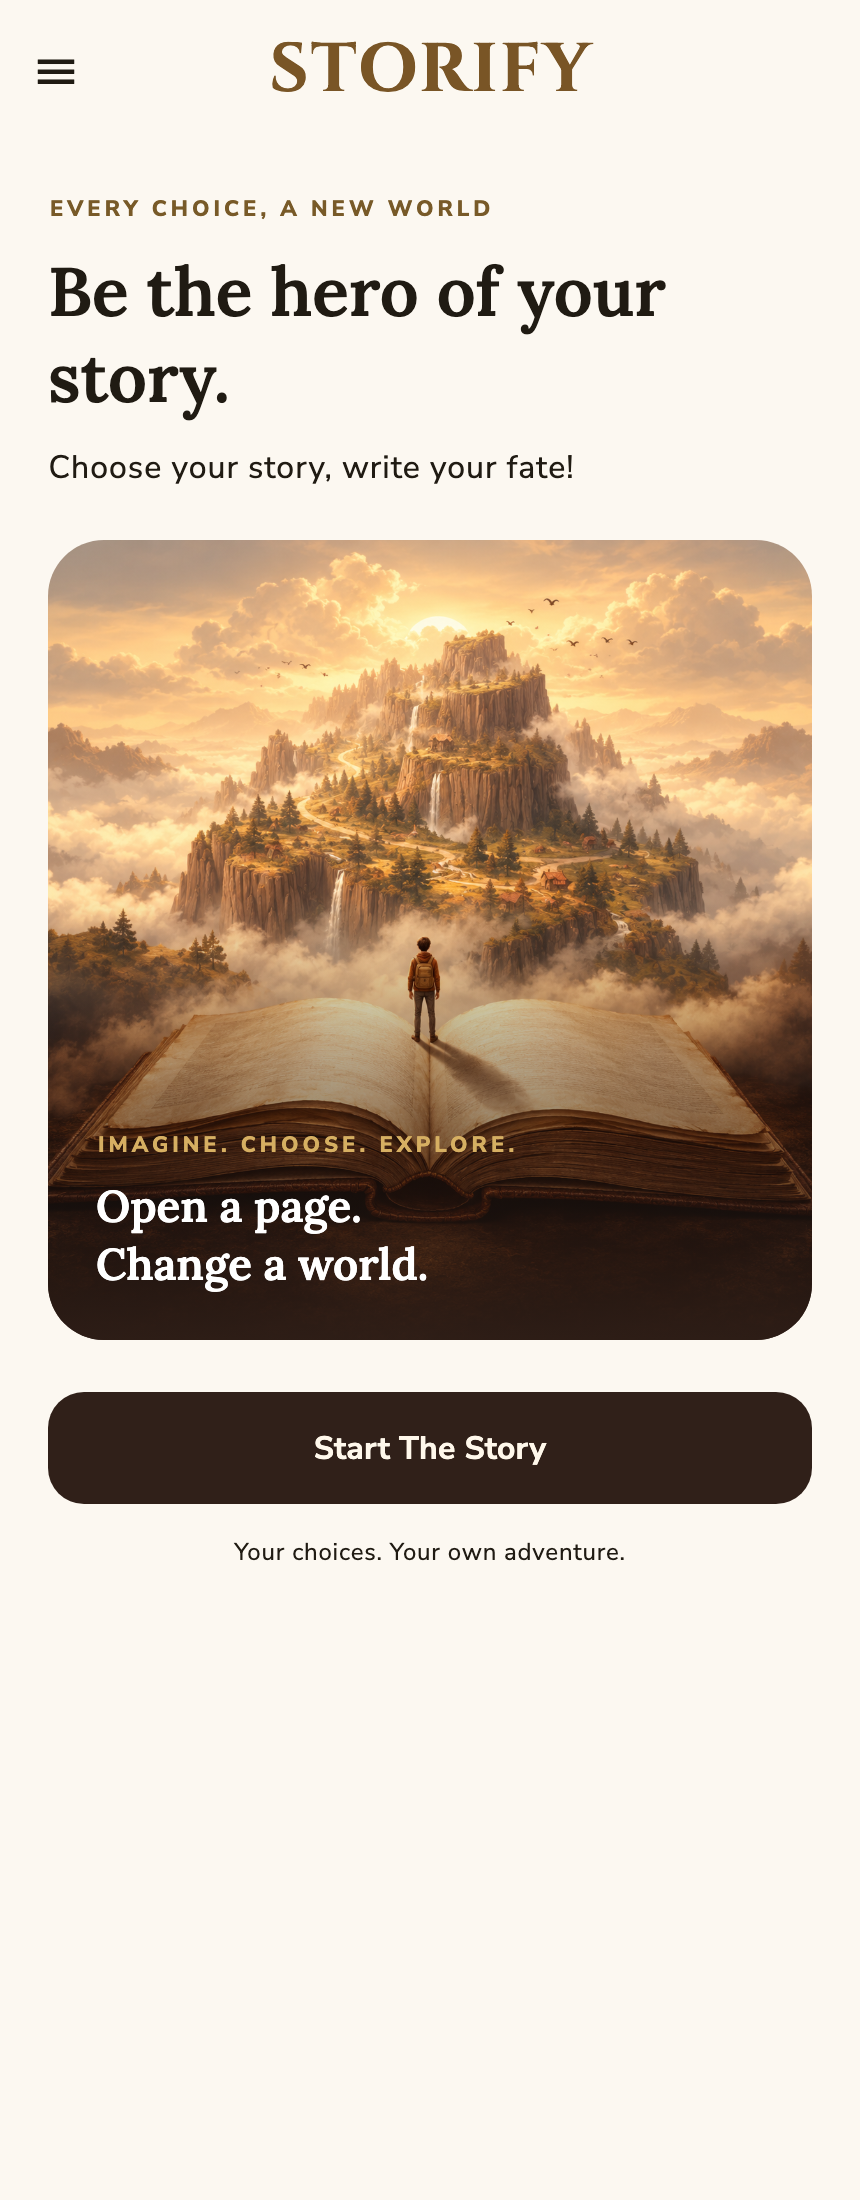
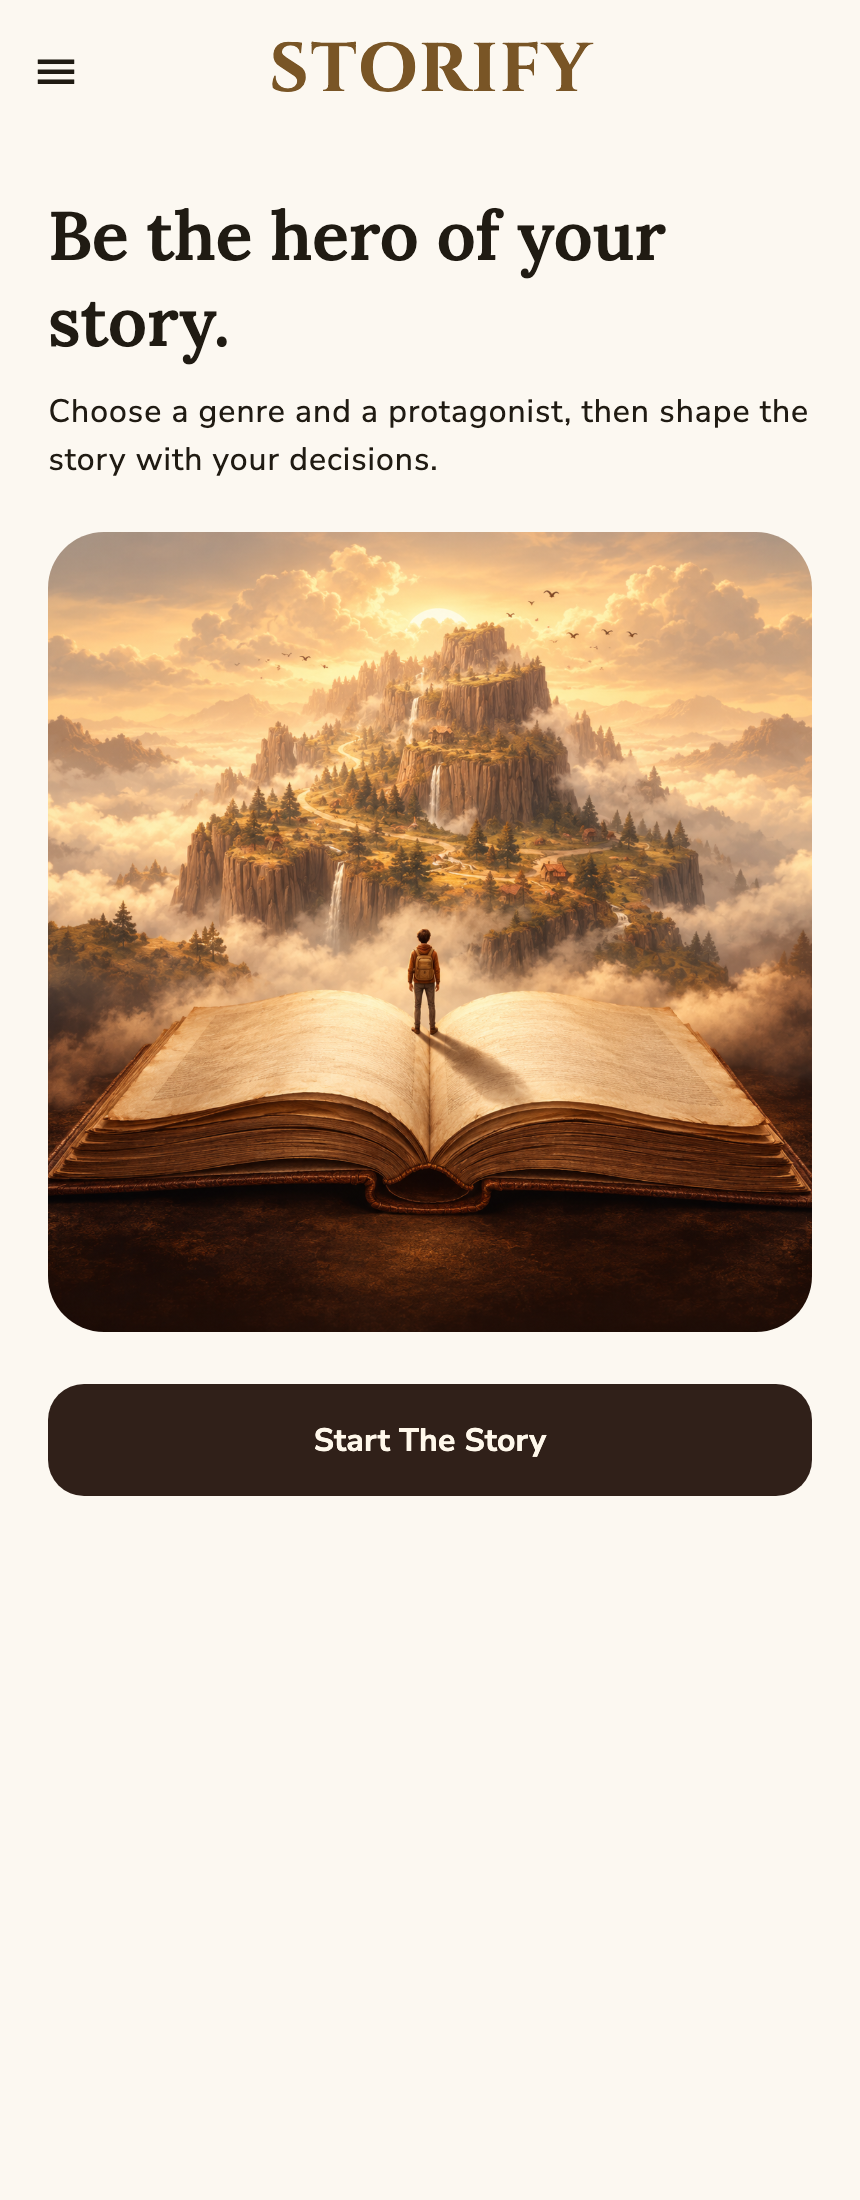
Simplify bilingual presentation and home screen copy

Changed region(s): [[0.0605, 0.0927, 0.9674, 0.7109], [0.907, 0.1855, 0.9372, 0.2164]]

diff --git a/lib/pages/home_page.dart b/lib/pages/home_page.dart
@@ -11,7 +11,6 @@ import 'package:flutter_story_app/pages/theme_selection_page.dart';
 import 'package:flutter_story_app/widgets/app_scaffold.dart';
 import 'package:flutter_story_app/widgets/primary_button.dart';
 import 'package:flutter_story_app/widgets/auth_guard.dart';
-import 'package:flutter_story_app/theme/app_theme.dart';
 
 class HomePage extends StatefulWidget {
   const HomePage({super.key});
@@ -62,75 +61,19 @@ class _HomePageState extends State<HomePage> {
         final wide = constraints.maxWidth >= 700;
         final artwork = ClipRRect(
           borderRadius: BorderRadius.circular(28),
-          child: Stack(
-            alignment: Alignment.bottomLeft,
-            children: [
-              Image.asset(
-                'assets/images/story-intro-gold.png',
-                width: double.infinity,
-                height:
-                    wide
-                        ? 540
-                        : (constraints.maxHeight * .45).clamp(220.0, 400.0),
-                fit: BoxFit.cover,
-                alignment: const Alignment(0, .25),
-              ),
-              Positioned.fill(
-                child: DecoratedBox(
-                  decoration: BoxDecoration(
-                    gradient: LinearGradient(
-                      begin: Alignment.topCenter,
-                      end: Alignment.bottomCenter,
-                      colors: [
-                        Colors.transparent,
-                        AppTheme.espresso.withValues(alpha: .85),
-                      ],
-                      stops: const [.45, 1],
-                    ),
-                  ),
-                ),
-              ),
-              Padding(
-                padding: const EdgeInsets.all(24),
-                child: Column(
-                  crossAxisAlignment: CrossAxisAlignment.start,
-                  children: [
-                    Text(
-                      'home_art_label'.tr(),
-                      style: const TextStyle(
-                        color: AppTheme.gold,
-                        fontSize: 11,
-                        letterSpacing: 2,
-                        fontWeight: FontWeight.w800,
-                      ),
-                    ),
-                    const SizedBox(height: 8),
-                    Text(
-                      'home_art_title'.tr(),
-                      style: Theme.of(
-                        context,
-                      ).textTheme.headlineSmall?.copyWith(color: Colors.white),
-                    ),
-                  ],
-                ),
-              ),
-            ],
+          child: Image.asset(
+            'assets/images/story-intro-gold.png',
+            width: double.infinity,
+            height:
+                wide ? 540 : (constraints.maxHeight * .45).clamp(220.0, 400.0),
+            fit: BoxFit.cover,
+            alignment: const Alignment(0, .25),
           ),
         );
         final content = Column(
           crossAxisAlignment: CrossAxisAlignment.start,
           children: [
             const SizedBox(height: 8),
-            Text(
-              'home_eyebrow'.tr(),
-              style: TextStyle(
-                color: Theme.of(context).colorScheme.secondary,
-                fontSize: 11,
-                letterSpacing: 2,
-                fontWeight: FontWeight.w800,
-              ),
-            ),
-            const SizedBox(height: 12),
             Text(
               'home_title'.tr(),
               style: Theme.of(context).textTheme.headlineLarge,
@@ -176,14 +119,6 @@ class _HomePageState extends State<HomePage> {
                   },
                 );
               },
-            ),
-            const SizedBox(height: 10),
-            Center(
-              child: Text(
-                'home_note'.tr(),
-                textAlign: TextAlign.center,
-                style: Theme.of(context).textTheme.bodySmall,
-              ),
             ),
           ],
         );

diff --git a/README.tr.md b/README.tr.md
@@ -8,15 +8,15 @@ Storify, Android ve iOS için geliştirilmiş etkileşimli bir hikâye uygulamas
 
 - **Seçimlerinle şekillenen hikâyeler:** Her bölümde sunulan üç seçenek, hikâyenin devamına yön verir. Yapay zekâ önceki olayları devam bölümlerinin bağlamında kullanır.
 - **Sekiz tür:** Macera, fantastik, gizem, bilim kurgu, korku, romantik, tarihî ve komedi. Kahramanını seçebilir veya seçimi uygulamaya bırakabilirsin.
-- **Misafir hikâyeleri:** İki dilde, farklı sonlara ulaşan hazır hikâyeleri AI isteği yapmadan keşfet. İlk misafir girişi internet bağlantısı gerektirir.
-- **Yapay zekâyla hikâye:** Kayıtlı kullanıcılar hikâye oluşturabilir, aynı cihazda son kaydedilen AI hikâyesine devam edebilir ve en fazla 30 bölümde sona ulaşabilir.
+- **Misafir hikâyeleri:** İki dilde, farklı sonlara ulaşan hazır hikâyeleri yapay zekâ isteği yapmadan keşfet. İlk misafir girişi internet bağlantısı gerektirir.
+- **Yapay zekâyla hikâye:** Kayıtlı kullanıcılar hikâye oluşturabilir, aynı cihazda son kaydedilen yapay zekâ hikâyesine devam edebilir ve en fazla 30 bölümde sona ulaşabilir.
 - **Hesap yönetimi:** E-posta/şifre ve Google ile giriş, şifre sıfırlama, profil düzenleme ve hesap silme. iOS için Apple ile giriş kodu mevcut; sağlayıcı yapılandırması gerektirir.
-- **İçerik kontrolleri:** AI paylaşımı öncesinde izin, üretilen metin ve seçeneklerde moderasyon ve uygulama içinden hikâye bildirme.
+- **İçerik kontrolleri:** Yapay zekâyla paylaşım öncesinde izin, üretilen metin ve seçeneklerde moderasyon ve uygulama içinden hikâye bildirme.
 - **Kişiselleştirme:** Türkçe ve İngilizce dil desteği, açık ve koyu tema; Storify'nin kahverengi ve altın paletinde farklı ekran boyutlarına uyumlu arayüz.
 
 ## Ekran görüntüleri
 
-Uygulamanın gerçek Flutter ekran bileşenleri ve paket içindeki misafir hikâyeleriyle oluşturulmuş görüntüler. Türkçe ve İngilizce çekimler mevcut; canlı hesap veya AI isteği kullanılmaz.
+Örnek hikâyelerle uygulama ekranları:
 
 <img src="docs/store/screenshots/tr-home.png" width="250" alt="Storify Türkçe ana sayfa"> <img src="docs/store/screenshots/tr-selection.png" width="250" alt="Storify Türkçe hikâye türü ve kahraman seçimi"> <img src="docs/store/screenshots/tr-story.png" width="250" alt="Storify Türkçe misafir hikâyesi ve seçenekleri">
 
@@ -27,19 +27,17 @@ Uygulamanın gerçek Flutter ekran bileşenleri ve paket içindeki misafir hikâ
 
 </details>
 
-Görüntüleri yeniden üretmek için [çekim rehberine](docs/store/screenshots/README.md) bakabilirsin.
-
 ## Veriler ve gizlilik
 
-Son AI hikâyesi ve tercihler cihazda saklanır; hikâyeler cihazlar arasında senkronize edilmez. Kimlik doğrulama, profil fotoğrafları ve gönderilen içerik bildirimleri için Firebase kullanılır. İzin verildikten sonra AI üretimi için hikâye bağlamı ve seçimler OpenAI'a gönderilir. Bu izin uygulama içinden geri alınabilir. Storify reklam, satın alma veya kullanım analitiği entegrasyonu içermez.
+Son yapay zekâ hikâyesi ve tercihler cihazda saklanır; hikâyeler cihazlar arasında senkronize edilmez. Kimlik doğrulama, profil fotoğrafları ve gönderilen içerik bildirimleri için Firebase kullanılır. İzin verildikten sonra yapay zekâ üretimi için hikâye bağlamı ve seçimler OpenAI'a gönderilir. Bu izin uygulama içinden geri alınabilir. Storify reklam, satın alma veya kullanım analitiği entegrasyonu içermez.
 
-Hesap silme işlemi yeniden kimlik doğrulaması yapar; ilgili Storage dosyalarını ve yerel hikâye/izin verilerini temizledikten sonra kimlik doğrulama hesabını siler. Canlı sağlayıcı ayarları ve Storage izinleri yayın öncesinde ayrıca doğrulanmalıdır.
-
-Uygulama **geliştirme aşamasındadır ve genel dağıtıma hazır değildir**. AI üretimi ve moderasyon şu anda uygulama paketindeki geliştirme anahtarını kullanır; yayın öncesinde bu istekler kimlik doğrulayan bir sunucuya taşınmalıdır. İmzalama, herkese açık gizlilik/hesap silme sayfaları ve gerçek cihaz doğrulamaları da beklemektedir.
+Hesap silme işlemi yeniden kimlik doğrulaması gerektirir; ilişkili dosyaları, yerel hikâye verilerini ve hesabı kaldırır.
 
 [Veri işleme açıklaması](docs/DATA_AND_PRIVACY.md#türkçe) · [Yayın kontrol listesi](docs/release_preparation.md)
 
 ## Geliştirme
+
+Uygulama geliştirme aşamasındadır. Dağıtım öncesinde yapay zekâ istekleri, uygulamadaki geliştirme anahtarı yerine kimlik doğrulamalı bir sunucu üzerinden çalışmalıdır. İmzalama, herkese açık gizlilik ve hesap silme sayfaları ile fiziksel cihaz testleri de tamamlanmalıdır.
 
 Storify, Flutter ile geliştirilmiştir. Durum yönetiminde Bloc/Cubit, yerel hikâye ilerlemesi ve tercihler için SharedPreferences, kimlik doğrulama ve dosya depolama için Firebase kullanılır. Çeviriler `easy_localization` ile yönetilir.
 
@@ -51,7 +49,7 @@ cp .env.example .env
 flutter run
 ```
 
-İlgili özellikleri test etmeden önce Firebase sağlayıcılarını ve yerel geliştirme anahtarını yapılandır. AI sağlayıcı anahtarı içeren derlemeleri dağıtma.
+İlgili özellikleri test etmeden önce Firebase sağlayıcılarını ve yerel geliştirme anahtarını yapılandır. Yapay zekâ sağlayıcı anahtarı içeren derlemeleri dağıtma.
 
 Kod ve test kontrolleri:
 
@@ -60,10 +58,12 @@ flutter analyze --no-pub
 flutter test --no-pub
 ```
 
-Yapılandırma, mimari, Storage kuralı testleri ve derleme komutları [geliştirme rehberinde](docs/DEVELOPMENT.md) açıklanır. Doğrulanan kontroller ve kalan işler [son proje incelemesinde](docs/project_review_2026-11-01.md) yer alır.
+Yapılandırma, mimari, Storage kuralı testleri ve derleme komutları [geliştirme rehberinde](docs/DEVELOPMENT.md) açıklanır.
 
 ## Destek
 
-[Shien](https://github.com/emrealidemirel/shien) uygulamasının da geliştiricisi olan [Emre Ali Demirel](https://github.com/emrealidemirel) tarafından geliştirilmiştir.
+Geliştirici: [Emre Ali Demirel](https://github.com/emrealidemirel)
+
+Diğer projeler: [Shien](https://github.com/emrealidemirel/shien) · [BugPilot AI](https://github.com/emrealidemirel/bugpilot-ai)
 
 Sorular ve geri bildirimler için: [emrealidemirel@gmail.com](mailto:emrealidemirel@gmail.com)

diff --git a/README.md b/README.md
@@ -16,7 +16,7 @@ Storify is an interactive storytelling app for Android and iOS. Choose a genre a
 
 ## Screenshots
 
-App screens rendered from the production Flutter widgets with bundled guest stories. English and Turkish captures are available; no live account or AI request is used.
+App screens with sample stories:
 
 <img src="docs/store/screenshots/en-home.png" width="250" alt="Storify home screen in English"> <img src="docs/store/screenshots/en-selection.png" width="250" alt="Storify genre and protagonist selection in English"> <img src="docs/store/screenshots/en-story.png" width="250" alt="Storify guest story with branching choices in English">
 
@@ -27,19 +27,17 @@ App screens rendered from the production Flutter widgets with bundled guest stor
 
 </details>
 
-See the [capture guide](docs/store/screenshots/README.md) to reproduce the images.
-
 ## Data and privacy
 
 The latest AI story and preferences are stored on your device; stories do not sync between devices. Firebase handles authentication, profile images, and submitted content reports. After permission is granted, AI generation sends story context and choices to OpenAI. You can withdraw this permission in the app. Storify contains no ads, purchases, or usage analytics integrations.
 
-Account deletion reauthenticates the user and removes associated Storage files and local story/consent data before deleting the authentication account. Live provider configuration and Storage permissions still need release validation.
-
-The app is **in development and not ready for public distribution**. AI generation and moderation currently use a development key bundled in the app; these requests must move to an authenticated backend before release. Signing, public privacy/account-deletion pages, and real-device validation are also pending.
+Account deletion requires reauthentication and removes associated files, local story data, and the account.
 
 [Data handling](docs/DATA_AND_PRIVACY.md) · [Release checklist](docs/release_preparation.md)
 
 ## Development
+
+The app is in development. Before distribution, AI requests must move from the client-side development key to an authenticated backend. Signing, public privacy and account-deletion pages, and physical-device checks are also pending.
 
 Storify is built with Flutter. It uses Bloc/Cubit for state management, SharedPreferences for local story progress and preferences, and Firebase for authentication and file storage. Translations are managed with `easy_localization`.
 
@@ -60,10 +58,12 @@ flutter analyze --no-pub
 flutter test --no-pub
 ```
 
-See the [development guide](docs/DEVELOPMENT.md) for configuration, architecture, Storage-rule tests, and build commands. The [latest project review](docs/project_review_2026-11-01.md) records verified checks and remaining work.
+See the [development guide](docs/DEVELOPMENT.md) for configuration, architecture, Storage-rule tests, and build commands.
 
 ## Support
 
-Developed by [Emre Ali Demirel](https://github.com/emrealidemirel), also the developer of [Shien](https://github.com/emrealidemirel/shien).
+Developed by [Emre Ali Demirel](https://github.com/emrealidemirel).
+
+Other projects: [Shien](https://github.com/emrealidemirel/shien) · [BugPilot AI](https://github.com/emrealidemirel/bugpilot-ai)
 
 For questions and feedback: [emrealidemirel@gmail.com](mailto:emrealidemirel@gmail.com)
